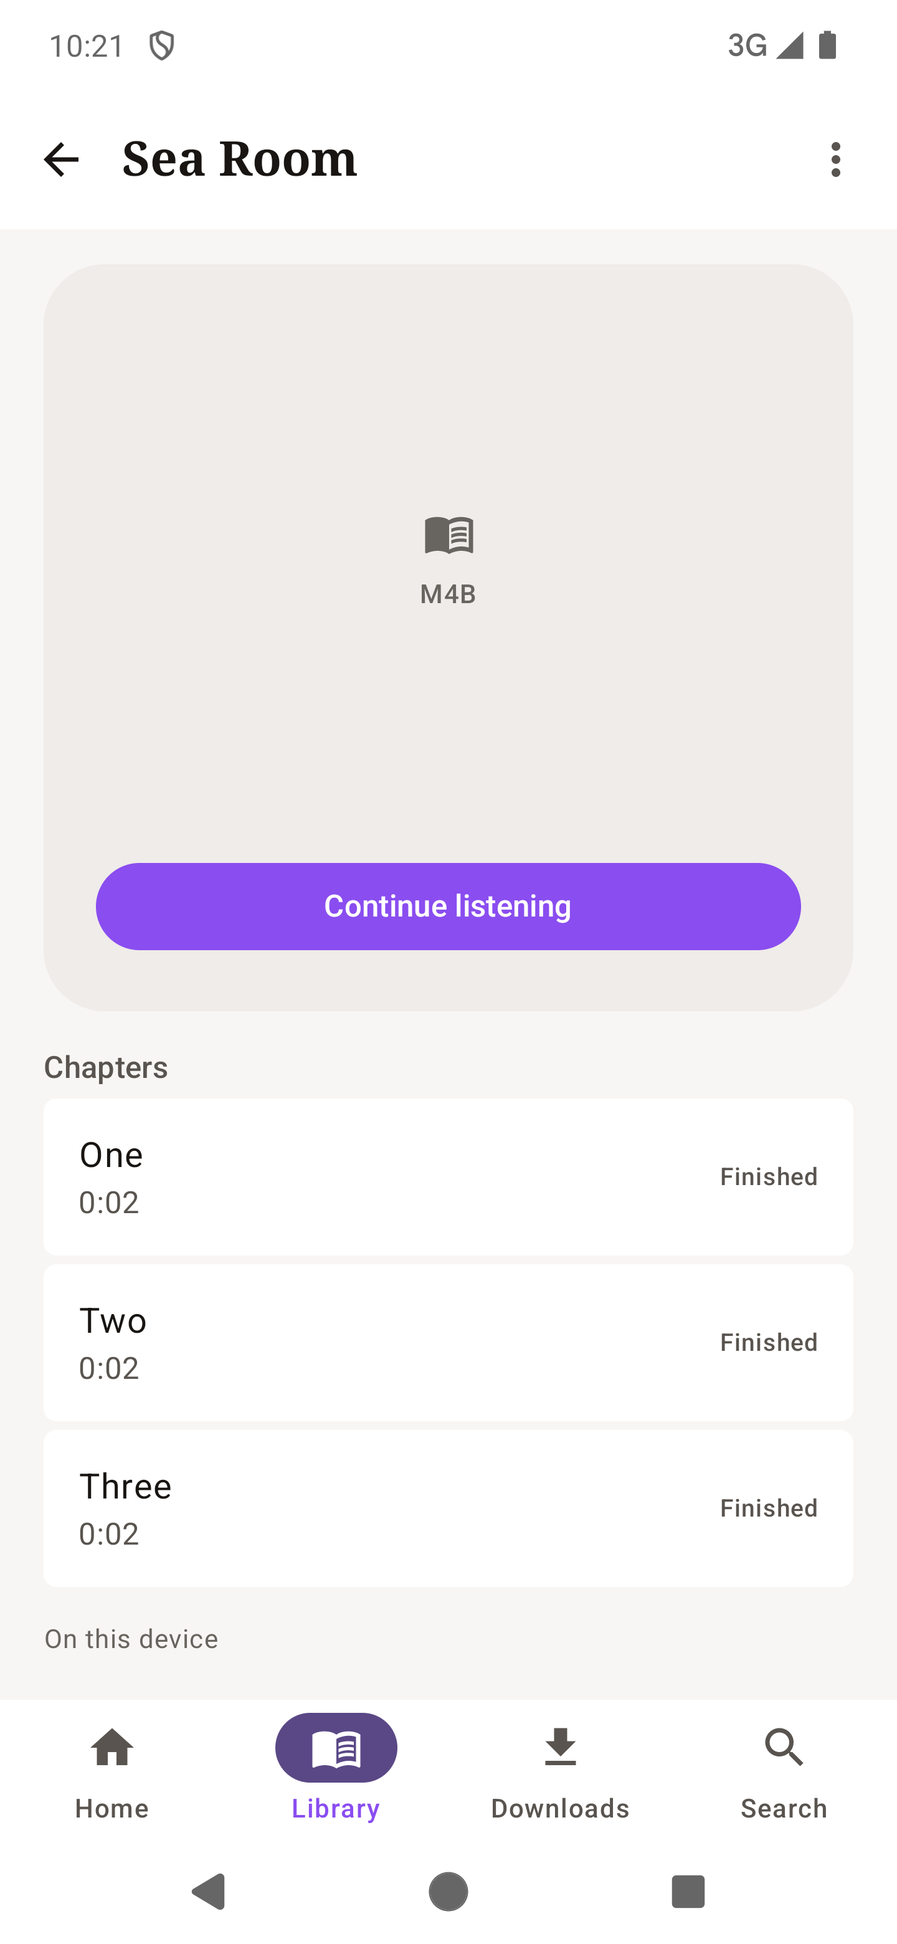
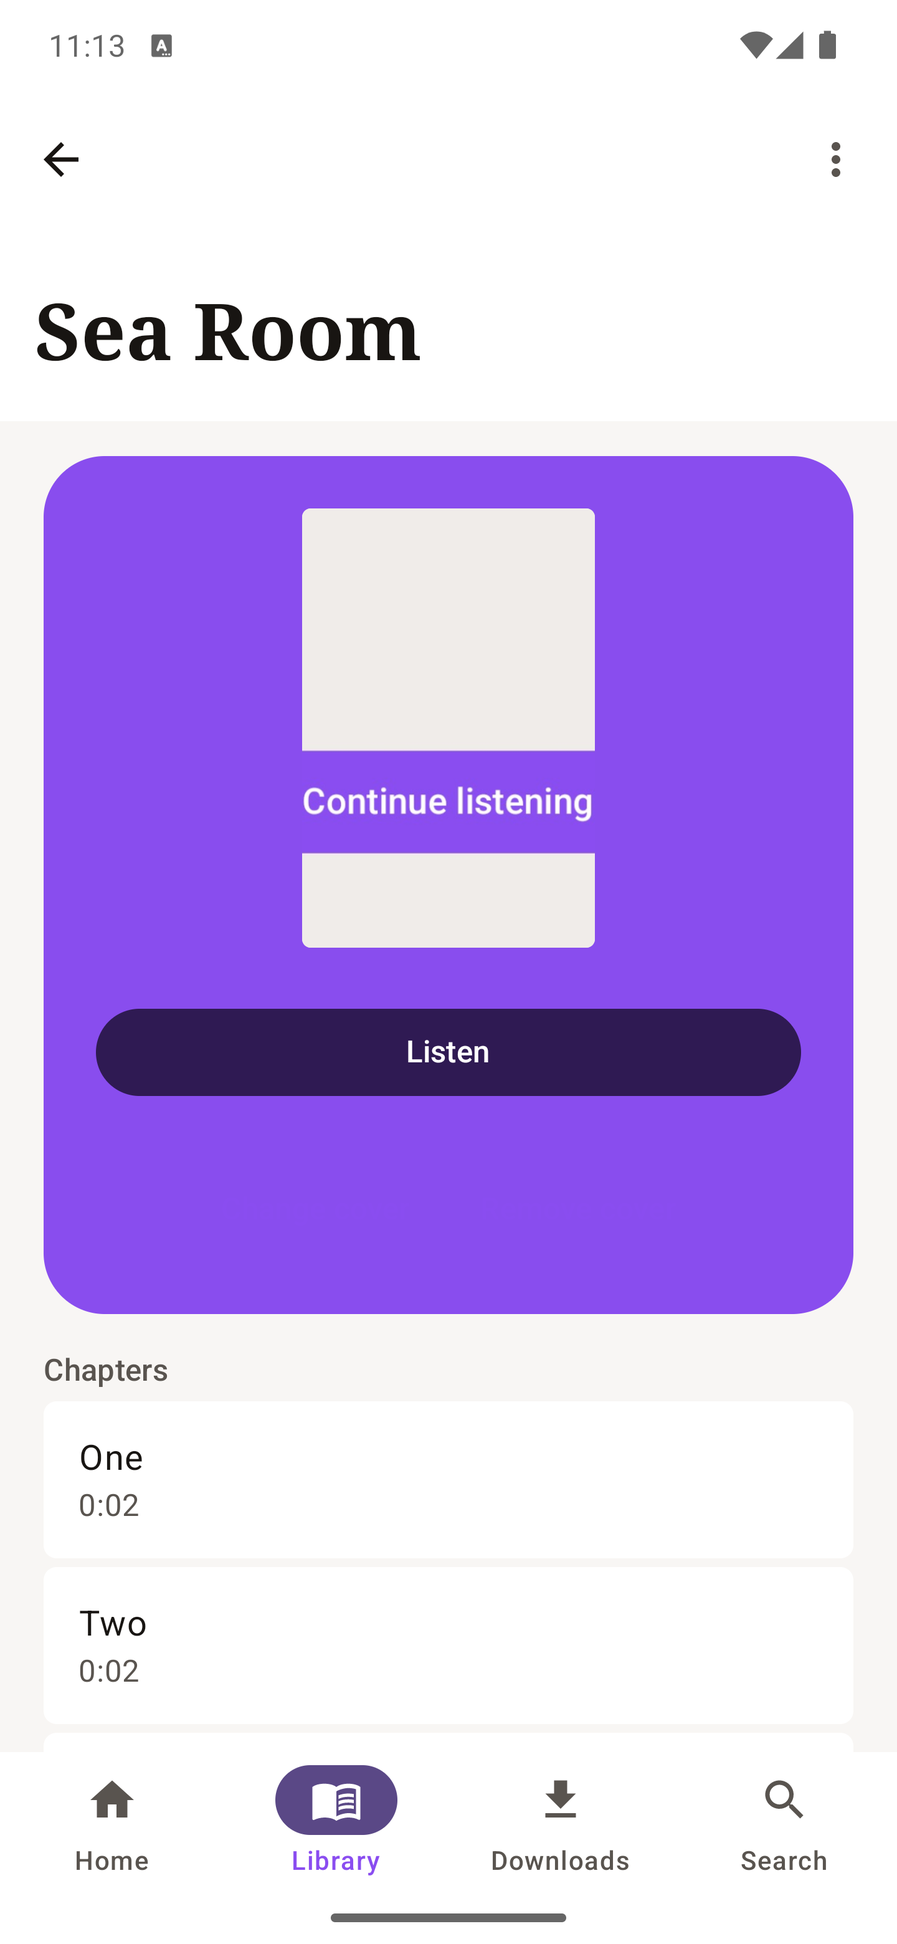
fix(repo): the cover choice stays legible on a chosen cover and at the largest text
The frames for the cover choice found two faults, and this fixes both.

**A button vanished on a chosen cover.** The choice controls sit inside the
page's wash, and the wash takes its colour from the cover. After a reader
chose a strongly coloured picture, a button drawn in the theme's primary was
that colour on itself. The controls now draw in the page's own accent, which
is the one colour the page keeps above 3:1 against its wash.

**Two labels ran into each other at the largest text.** At an accessibility
size, "Change cover" and "Remove cover" side by side wrapped through each
other. They now stack below that size, on both platforms.

The iOS frames are added beside the Android ones: sixteen frames in all, for
the coverless well and a chosen cover, in light and dark, at default and
largest text. Tasks 1.1 to 2.6 of cover-for-every-publication are recorded
against what landed.

diff --git a/apps/android/feature/library/src/main/kotlin/app/storyarc/feature/library/DetailCoverChoice.kt b/apps/android/feature/library/src/main/kotlin/app/storyarc/feature/library/DetailCoverChoice.kt
@@ -7,6 +7,7 @@ import androidx.compose.foundation.layout.Arrangement
 import androidx.compose.foundation.layout.Column
 import androidx.compose.foundation.layout.Row
 import androidx.compose.foundation.layout.fillMaxWidth
+import androidx.compose.material3.ButtonDefaults
 import androidx.compose.material3.MaterialTheme
 import androidx.compose.material3.Text
 import androidx.compose.material3.TextButton
@@ -19,9 +20,12 @@ import androidx.compose.runtime.rememberCoroutineScope
 import androidx.compose.runtime.setValue
 import androidx.compose.ui.Alignment
 import androidx.compose.ui.Modifier
+import androidx.compose.ui.graphics.Color
 import androidx.compose.ui.platform.LocalContext
+import androidx.compose.ui.platform.LocalDensity
 import androidx.compose.ui.res.stringResource
 import androidx.compose.ui.text.style.TextAlign
+import app.storyarc.core.designsystem.grid.isAccessibilityFontScale
 import app.storyarc.core.designsystem.theme.LocalStoryArcPalette
 import app.storyarc.core.designsystem.tokens.StoryArcSpace
 import app.storyarc.core.model.Publication
@@ -135,18 +139,30 @@ internal fun CoverChoiceControls(
     choice: CoverChoice,
     hasCover: Boolean,
     modifier: Modifier = Modifier,
+    /**
+     * The page's own accent, or null where the cover gave none.
+     *
+     * These controls sit **inside** the hero's wash, and the wash is taken from the cover —
+     * so once a reader has chosen a strongly coloured picture, a button drawn in the theme's
+     * own primary is that colour on itself and disappears. `android-chosen-cover-light-
+     * largest.png` caught exactly that before this parameter existed.
+     * [DetailAccent.accent] is the one colour this page guarantees clears the 3:1 floor
+     * against that wash, which is why it is the one used here.
+     */
+    accent: DetailAccent? = null,
 ) {
     if (choice.onChoose == null) return
     val palette = LocalStoryArcPalette.current
+    val content = accent?.accent ?: MaterialTheme.colorScheme.primary
     Column(
         modifier = modifier.fillMaxWidth(),
         horizontalAlignment = Alignment.CenterHorizontally,
     ) {
-        Row(horizontalArrangement = Arrangement.spacedBy(StoryArcSpace.sm)) {
-            // Said in words as well as offered on the well itself. A well that is silently
-            // tappable is a well that nobody taps: `design.md` rule 2 asks for a label beside
-            // anything a reader has to notice, and the glyph alone says only "no artwork".
-            TextButton(onClick = choice.onChoose) {
+        // Said in words as well as offered on the well itself. A well that is silently
+        // tappable is a well that nobody taps: `design.md` rule 2 asks for a label beside
+        // anything a reader has to notice, and the glyph alone says only "no artwork".
+        val buttons: @Composable () -> Unit = {
+            TextButton(onClick = choice.onChoose, colors = textButtonColors(content)) {
                 Text(
                     text = stringResource(
                         if (hasCover) R.string.cover_change else R.string.cover_choose,
@@ -154,16 +170,25 @@ internal fun CoverChoiceControls(
                 )
             }
             choice.onRemove?.let { remove ->
-                TextButton(onClick = remove) {
+                TextButton(onClick = remove, colors = textButtonColors(content)) {
                     Text(text = stringResource(R.string.cover_remove))
                 }
             }
+        }
+        // Side by side until the text stops fitting, then stacked. `design.md` §3 rule 3 asks
+        // every screen to survive the largest accessibility size, and two labels in a row at
+        // that size wrap into each other — iOS's own frame photographed *Cha nge cov er*
+        // across *Remove cover* before the two platforms grew this split.
+        if (isAccessibilityFontScale(LocalDensity.current.fontScale)) {
+            Column(horizontalAlignment = Alignment.CenterHorizontally) { buttons() }
+        } else {
+            Row(horizontalArrangement = Arrangement.spacedBy(StoryArcSpace.sm)) { buttons() }
         }
         if (choice.hasChosen && choice.isTiedToPath) {
             Text(
                 text = stringResource(R.string.cover_tied_to_path),
                 style = MaterialTheme.typography.labelSmall,
-                color = palette.textTertiary,
+                color = if (accent == null) palette.textTertiary else content,
                 textAlign = TextAlign.Center,
             )
         }
@@ -171,9 +196,14 @@ internal fun CoverChoiceControls(
             Text(
                 text = stringResource(R.string.cover_unreadable),
                 style = MaterialTheme.typography.labelSmall,
-                color = palette.textSecondary,
+                color = if (accent == null) palette.textSecondary else content,
                 textAlign = TextAlign.Center,
             )
         }
     }
 }
+
+/** A text button that writes in [content] rather than in the theme's own primary. */
+@Composable
+private fun textButtonColors(content: Color) =
+    ButtonDefaults.textButtonColors(contentColor = content)

diff --git a/apps/ios/Packages/StoryArcKit/Sources/LibraryFeature/CoverChoiceView.swift b/apps/ios/Packages/StoryArcKit/Sources/LibraryFeature/CoverChoiceView.swift
@@ -23,6 +23,8 @@ struct DetailCoverChoice: View {
     let model: LibraryModel
     let cover: CGImage?
 
+    @Environment(\.dynamicTypeSize) private var typeSize
+
     @State private var isChoosing = false
     @State private var picked: PhotosPickerItem?
     @State private var hasChosenCover = false
@@ -51,25 +53,15 @@ struct DetailCoverChoice: View {
     @ViewBuilder
     private var controls: some View {
         VStack(spacing: StoryArcSpace.hair) {
-            HStack(spacing: StoryArcSpace.md) {
-                // Said in words as well as offered on the well itself. A well that is
-                // silently tappable is a well that nobody taps: `design.md` rule 2 asks for a
-                // label beside anything a reader has to notice, and the glyph alone says only
-                // "no artwork".
-                Button { isChoosing = true } label: {
-                    Label {
-                        Text(cover == nil ? "cover.choose" : "cover.change", bundle: .module)
-                    } icon: {
-                        Image(systemName: "photo")
-                    }
-                }
-                if hasChosenCover {
-                    Button(role: .destructive) {
-                        model.removeChosenCover(for: publication)
-                        hasChosenCover = false
-                    } label: {
-                        Text("cover.remove", bundle: .module)
-                    }
+            // Side by side until the text stops fitting, then stacked. `design.md` §3 rule 3
+            // asks every screen to survive the largest accessibility size, and two labels in
+            // a row at that size wrap into each other — `ios-detail-chosen-cover-ax5-dark.png`
+            // photographed *Cha nge cov er* across *Remove cover* before this split existed.
+            Group {
+                if typeSize.isAccessibilitySize {
+                    VStack(spacing: StoryArcSpace.xs) { buttons }
+                } else {
+                    HStack(spacing: StoryArcSpace.md) { buttons }
                 }
             }
             .textRole(.subheadline)
@@ -93,6 +85,29 @@ struct DetailCoverChoice: View {
             }
         }
         .frame(maxWidth: .infinity)
+    }
+
+    /// The two controls themselves, so one copy serves both the row and the stack.
+    @ViewBuilder
+    private var buttons: some View {
+        // Said in words as well as offered on the well itself. A well that is silently
+        // tappable is a well that nobody taps: `design.md` rule 2 asks for a label beside
+        // anything a reader has to notice, and the glyph alone says only "no artwork".
+        Button { isChoosing = true } label: {
+            Label {
+                Text(cover == nil ? "cover.choose" : "cover.change", bundle: .module)
+            } icon: {
+                Image(systemName: "photo")
+            }
+        }
+        if hasChosenCover {
+            Button(role: .destructive) {
+                model.removeChosenCover(for: publication)
+                hasChosenCover = false
+            } label: {
+                Text("cover.remove", bundle: .module)
+            }
+        }
     }
 
     /// Takes the picture the reader chose and makes it this publication's cover.

diff --git a/apps/ios/UITests/SweepCoverChoice.swift b/apps/ios/UITests/SweepCoverChoice.swift
@@ -72,16 +72,25 @@ final class SweepCoverChoiceTests: XCTestCase {
     /// asserted by `CoverlessWellOffersAChoiceTests`; the frame is here to show it.
     private func openSeaRoom(in app: XCUIApplication) throws {
         try showTheShelf(in: app)
-        if !tapSeaRoom(prefix: "Sea Room, M4B", in: app) {
-            guard tapSeaRoom(prefix: "Sea Room", in: app) else {
-                throw XCTSkip(
-                    "This device's shelf never showed a cover for \u{201C}Sea Room\u{201D}."
-                        + " Seed the corpus: node scripts/corpus.mjs --simulator <udid>."
-                )
+        guard tapSeaRoom(prefix: "Sea Room", in: app) else {
+            throw XCTSkip(
+                "This device's shelf never showed a cover for \u{201C}Sea Room\u{201D}."
+                    + " Seed the corpus: node scripts/corpus.mjs --simulator <udid>."
+            )
+        }
+        // A group's own cell borrows its first member's spoken label, so the tap above
+        // cannot tell a group of two from the book itself. What tells them apart is what
+        // arrives: a publication page carries the primary action and a group does not. The
+        // corpus holds the same title three ways — a group, a folder and a file — so this
+        // taps on until a page answers rather than assuming how deep the shelf put it.
+        for _ in 0..<3 {
+            if app.buttons.matching(opensAPublication).firstMatch.waitForExistence(timeout: 5) {
+                break
             }
-            if !app.buttons.matching(opensAPublication).firstMatch.waitForExistence(timeout: 5) {
-                _ = tapSeaRoom(prefix: "Sea Room, M4B", in: app)
+            if !tapSeaRoom(prefix: "Sea Room, M4B", in: app) {
+                _ = tapSeaRoom(prefix: "Sea Room", in: app)
             }
+            hold(0.5)
         }
         XCTAssertTrue(
             app.buttons.matching(opensAPublication).firstMatch.waitForExistence(timeout: 10),
@@ -95,12 +104,16 @@ final class SweepCoverChoiceTests: XCTestCase {
     /// it. False where the shelf never drew one, which the caller decides what to do about.
     private func tapSeaRoom(prefix: String, in app: XCUIApplication) -> Bool {
         let wanted = app.buttons.matching(NSPredicate(format: "label BEGINSWITH %@", prefix))
-        for _ in 0..<15 {
+        // `.fast`, and enough of them to cross the whole shelf: `Sea Room` is late in the
+        // alphabet and at the largest text size a shelf of seventeen is several screens
+        // deeper than it is at the default one. A slow swipe there crossed four of them and
+        // the walk reported a title the shelf was holding as a title the shelf never drew.
+        for _ in 0..<25 {
             if let hit = wanted.allElementsBoundByIndex.first(where: \.isHittable) {
                 hit.tap()
                 return true
             }
-            app.swipeUp()
+            app.swipeUp(velocity: .fast)
         }
         return false
     }

diff --git a/apps/android/feature/library/src/main/kotlin/app/storyarc/feature/library/DetailHero.kt b/apps/android/feature/library/src/main/kotlin/app/storyarc/feature/library/DetailHero.kt
@@ -134,7 +134,7 @@ internal fun DetailHero(
                 )
                 Box(modifier = Modifier.weight(1f, fill = false).widthIn(max = ACTION_WIDTH)) {
                     action()
-                    CoverChoiceControls(choice = coverChoice, hasCover = cover != null)
+                    CoverChoiceControls(choice = coverChoice, hasCover = cover != null, accent = accent)
                 }
             }
             return@Surface
@@ -151,7 +151,7 @@ internal fun DetailHero(
                 onChooseCover = coverChoice.onChoose.takeIf { cover == null },
             )
             action()
-            CoverChoiceControls(choice = coverChoice, hasCover = cover != null)
+            CoverChoiceControls(choice = coverChoice, hasCover = cover != null, accent = accent)
         }
     }
 }

diff --git a/docs/openspec/changes/cover-for-every-publication/tasks.md b/docs/openspec/changes/cover-for-every-publication/tasks.md
@@ -4,35 +4,73 @@ watched it on a device.
 
 ## 1. The rungs that need no network
 
-- [ ] 1.1 **Finish embedded artwork on the Android Storage Access Framework paths** (android).
+- [x] 1.1 **Finish embedded artwork on the Android Storage Access Framework paths** (android).
   Task 16.9 of `close-the-audited-gaps` covers every path that holds a real file. It is open
   where Android indexes audio through SAF, because neither the single-file nor the folder SAF
   path can reach a file to read. Two call sites in `LibraryScanner.kt`, one reader for a SAF
   child. Write the extracted image to the data directory, not the caches directory.
-- [ ] 1.2 **A loose cover image beside the file becomes the cover** (both). `cover`, `folder`
+  **Done 2026-10-06.** `LibraryScanner.scan(resolver, tree, …)` now carries the directory the
+  artwork is written to, and both Storage Access Framework call sites use it: a single document
+  through `UriSource`'s open descriptor, whose `/proc/self/fd/N` is the path
+  `MediaMetadataRetriever` accepts, and a picked folder through
+  `LibraryScanner.looseCoverFrom`, which copies the folder's own `cover`/`folder`/`poster`
+  child out through the provider once. The directory is `filesDir` and not `cacheDir`: artwork
+  written to a cache directory left the cached shelf beside it pointing at files the system had
+  removed.
+- [x] 1.2 **A loose cover image beside the file becomes the cover** (both). `cover`, `folder`
   or `poster`, in the publication's own folder or an audiobook's folder, when the file carries
   no artwork. This is the cheapest rung after the bytes themselves and it is common in ripped
   audiobook folders.
-- [ ] 1.3 **One place answers "what is this publication's cover"** (both). The shelf, the
+  **Done 2026-10-06.** `LooseCover` on both platforms: `cover`, `folder` or `poster` against
+  five extensions, beside a file or inside a folder. `AudiobookCover.folderCoverNames` is that
+  list now, so one rung answers for every format instead of for audiobooks alone.
+- [x] 1.3 **One place answers "what is this publication's cover"** (both). The shelf, the
   player, the media session and the publication page each resolve covers today. The ladder has
   to be one function they all ask, or a later rung reaches three of the four. Keep
   `CoverCache`'s key and size behaviour.
+  **Done 2026-10-06.** `CoverLadder` on both platforms — the reader's own picture, then the
+  publication's own bytes, then a loose image beside the file. The shelf (`LibraryModel.cover`
+  and `LibraryViewModel.cover`), the player and the publication page reach it through that one
+  call, and Android's car shelf asks `CoverLadder.coverFile` where it used to read
+  `Publication.coverPath` itself — the fourth caller that made one place necessary.
+  `CoverCache`'s key and size behaviour are unchanged.
 
 ## 2. The reader's own picture
 
-- [ ] 2.1 **A cover-override store, keyed by content digest** (both). Outside the caches
+- [x] 2.1 **A cover-override store, keyed by content digest** (both). Outside the caches
   directory. Falls back to the stable identifier for a publication with no digest, and records
   which key it used so the app can say what moving it costs.
-- [ ] 2.2 **The system picker sets a cover** (both). `PHPickerViewController` on iOS, the photo
+  **Done 2026-10-06.** `CoverOverrideStore`, keyed by `sha:<contentDigest>` and falling back to
+  the stable identifier, in Application Support on iOS and under `filesDir` on Android.
+  `keyKind` reports which was used, and the publication page says plainly that moving a
+  publication filed under its path loses the choice.
+- [x] 2.2 **The system picker sets a cover** (both). `PHPickerViewController` on iOS, the photo
   picker on Android. No permission prompt on either, which is the reason for choosing these two
   over a file-read. Crop to the cover shape before storing.
-- [ ] 2.3 **The coverless well offers it** (both). `CoverlessWell` draws a glyph and a format
+  **Done 2026-10-06.** SwiftUI's `PhotosPicker`, which is `PHPickerViewController`, and
+  `ActivityResultContracts.PickVisualMedia`; neither asks for a permission. `CoverArtwork`
+  centre-crops to 2:3 before storing.
+- [x] 2.3 **The coverless well offers it** (both). `CoverlessWell` draws a glyph and a format
   name and offers nothing. It becomes the entry point.
-- [ ] 2.4 **Removing a chosen cover falls back down the ladder** (both), and deletes the image.
-- [ ] 2.5 **A chosen cover survives a cache clear** (both). A test that runs
+  **Done 2026-10-06.** The empty well is the button — `CoverlessWell(format:action:)` on iOS, a
+  clickable `DetailCover` on Android — and the same offer is made in words underneath, because
+  a silently tappable well is one nobody taps.
+- [x] 2.4 **Removing a chosen cover falls back down the ladder** (both), and deletes the image.
+  **Done 2026-10-06.** *Remove cover* deletes the image, drops both cover caches and lets the
+  ladder resolve the rung below on the next draw.
+- [x] 2.5 **A chosen cover survives a cache clear** (both). A test that runs
   `StorageUsage.clearCache` and asserts the cover is still there.
-- [ ] 2.6 **Frames**: the coverless well before, and a publication with a chosen cover after, on
+  **Done 2026-10-06.** `ChosenCoverSurvivesCacheClearTest` composes the real `StorageUsage`
+  against a real `Context` under Robolectric, and the iOS twin asserts the same two things: the
+  clear empties the cover cache, and the store's own directory is not under any directory the
+  clear reaches.
+- [x] 2.6 **Frames**: the coverless well before, and a publication with a chosen cover after, on
   both platforms, light and dark, default and largest text.
+  **Done 2026-10-06.** Sixteen frames in
+  `docs/designs/screenshots/cover-for-every-publication/`: the coverless well and a publication
+  with a chosen cover, on both platforms, light and dark, at the default and the largest text
+  size. The README there records how the *after* state was staged, because the system picker
+  runs in another process and no test may fill the device's photo library.
 
 ## 3. The lookup, off until it is turned on
 

diff --git a/docs/designs/screenshots/cover-for-every-publication/README.md b/docs/designs/screenshots/cover-for-every-publication/README.md
@@ -1,0 +1,56 @@
+# A cover for every publication — the frames task 2.6 asks for
+
+Task 2.6 of `cover-for-every-publication`: "the coverless well before, and a publication with a
+chosen cover after, on both platforms, light and dark, default and largest text".
+
+The subject is **Sea Room**, the corpus's chaptered audiobook. It is the one publication in
+`scripts/corpus.mjs` that carries no artwork of any kind — no embedded picture, no loose image
+beside it — so its page is where the well is drawn, and where the reader's own picture is drawn
+once they have chosen one.
+
+| Frame | What it shows |
+| --- | --- |
+| `android-coverless-well-*.png` | The well is the entry point, with the same offer in words under the hero |
+| `android-chosen-cover-*.png` | The chosen picture, *Change cover* and *Remove cover* |
+| `ios-detail-coverless-well*.png` | The same before state on iOS |
+| `ios-detail-chosen-cover*.png` | The same after state on iOS |
+
+`-dark` is the dark appearance. `-largest` on Android and `-ax5` on iOS are the largest
+accessibility text size; the two platforms' capture harnesses name that condition differently
+and each keeps its own convention.
+
+## How the *after* state was staged, and why it is not a lie
+
+**The picker cannot be driven from a test.** `PHPickerViewController` and Android's photo
+picker both run in another process, by design — that is the whole reason this change uses them,
+since neither needs a permission — and they show the device's own photo library, which is empty
+on a fresh simulator and emulator and which no test may fill.
+
+So the chosen cover was written straight into the app's own override store before the run, under
+the key the app itself would use: the FNV-1a hash of `sha:<contentDigest>`, in
+`Library/Application Support/cover-overrides` on iOS and `files/cover-overrides` on Android. The
+digest is the one `PublicationIndexer` computes — the file's length, its first 512 KiB and its
+last — so the app resolved the file by the same key it would have written.
+
+What these frames therefore prove is the ladder: that a cover in the override store is the one
+the page draws, that the controls change with it, and that both hold in four conditions. What
+they do **not** prove is the picker itself. `CoverLadderTests` and `CoverLadderTest` assert the
+storing, the cropping and the removal; `CoverlessWellOffersAChoiceTest` presses the well under
+Robolectric and asserts the chooser is asked.
+
+The picture used as the reader's choice is a screenshot of the app, cropped to 2:3. It is
+deliberately something no publication could carry, so a reader of these frames cannot mistake
+the chosen cover for artwork the file already held.
+
+## Reproducing them
+
+```bash
+# Android
+node scripts/capture-android.mjs "Publication page > no cover" --out <file> [--dark] [--font-scale 2.0]
+
+# iOS
+node scripts/capture-ios.mjs --out <directory> --only SweepCoverChoiceTests [--appearance dark]
+```
+
+Both walks need a seeded device: `node scripts/corpus.mjs --simulator <udid>` for iOS, and the
+corpus pushed into `/sdcard/Android/data/com.mecedric.storyarc.debug/files` for Android.
